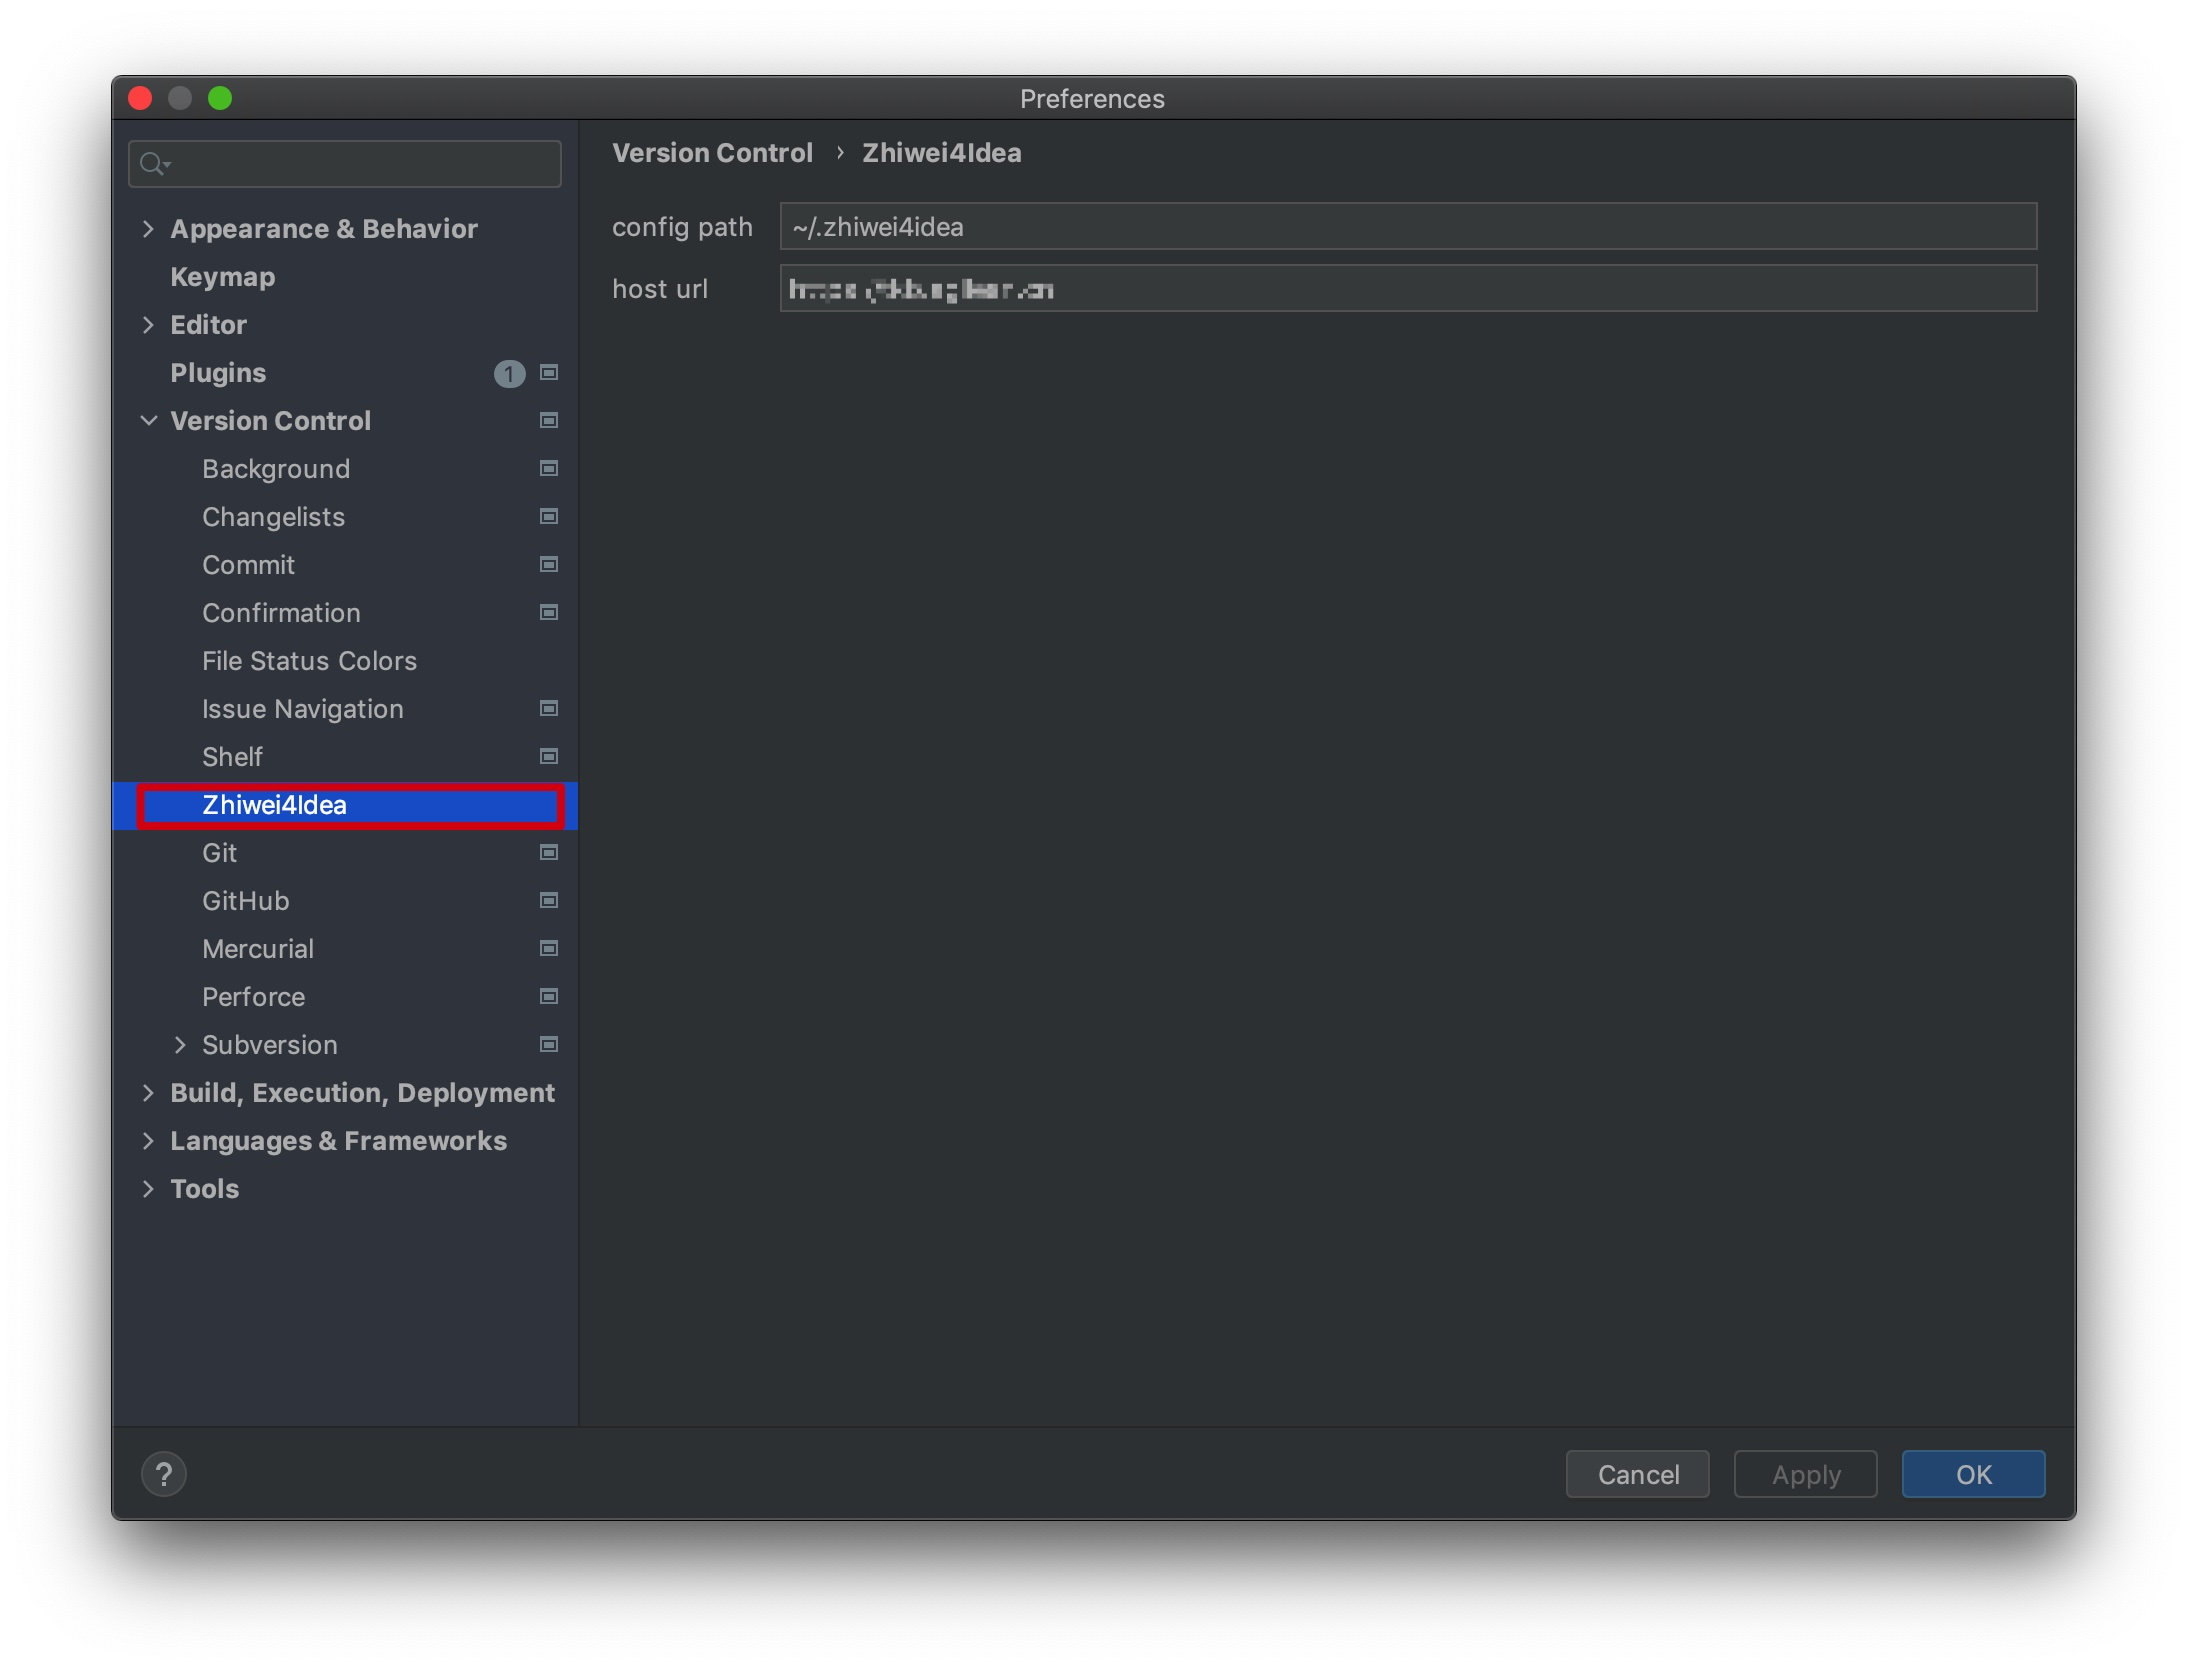
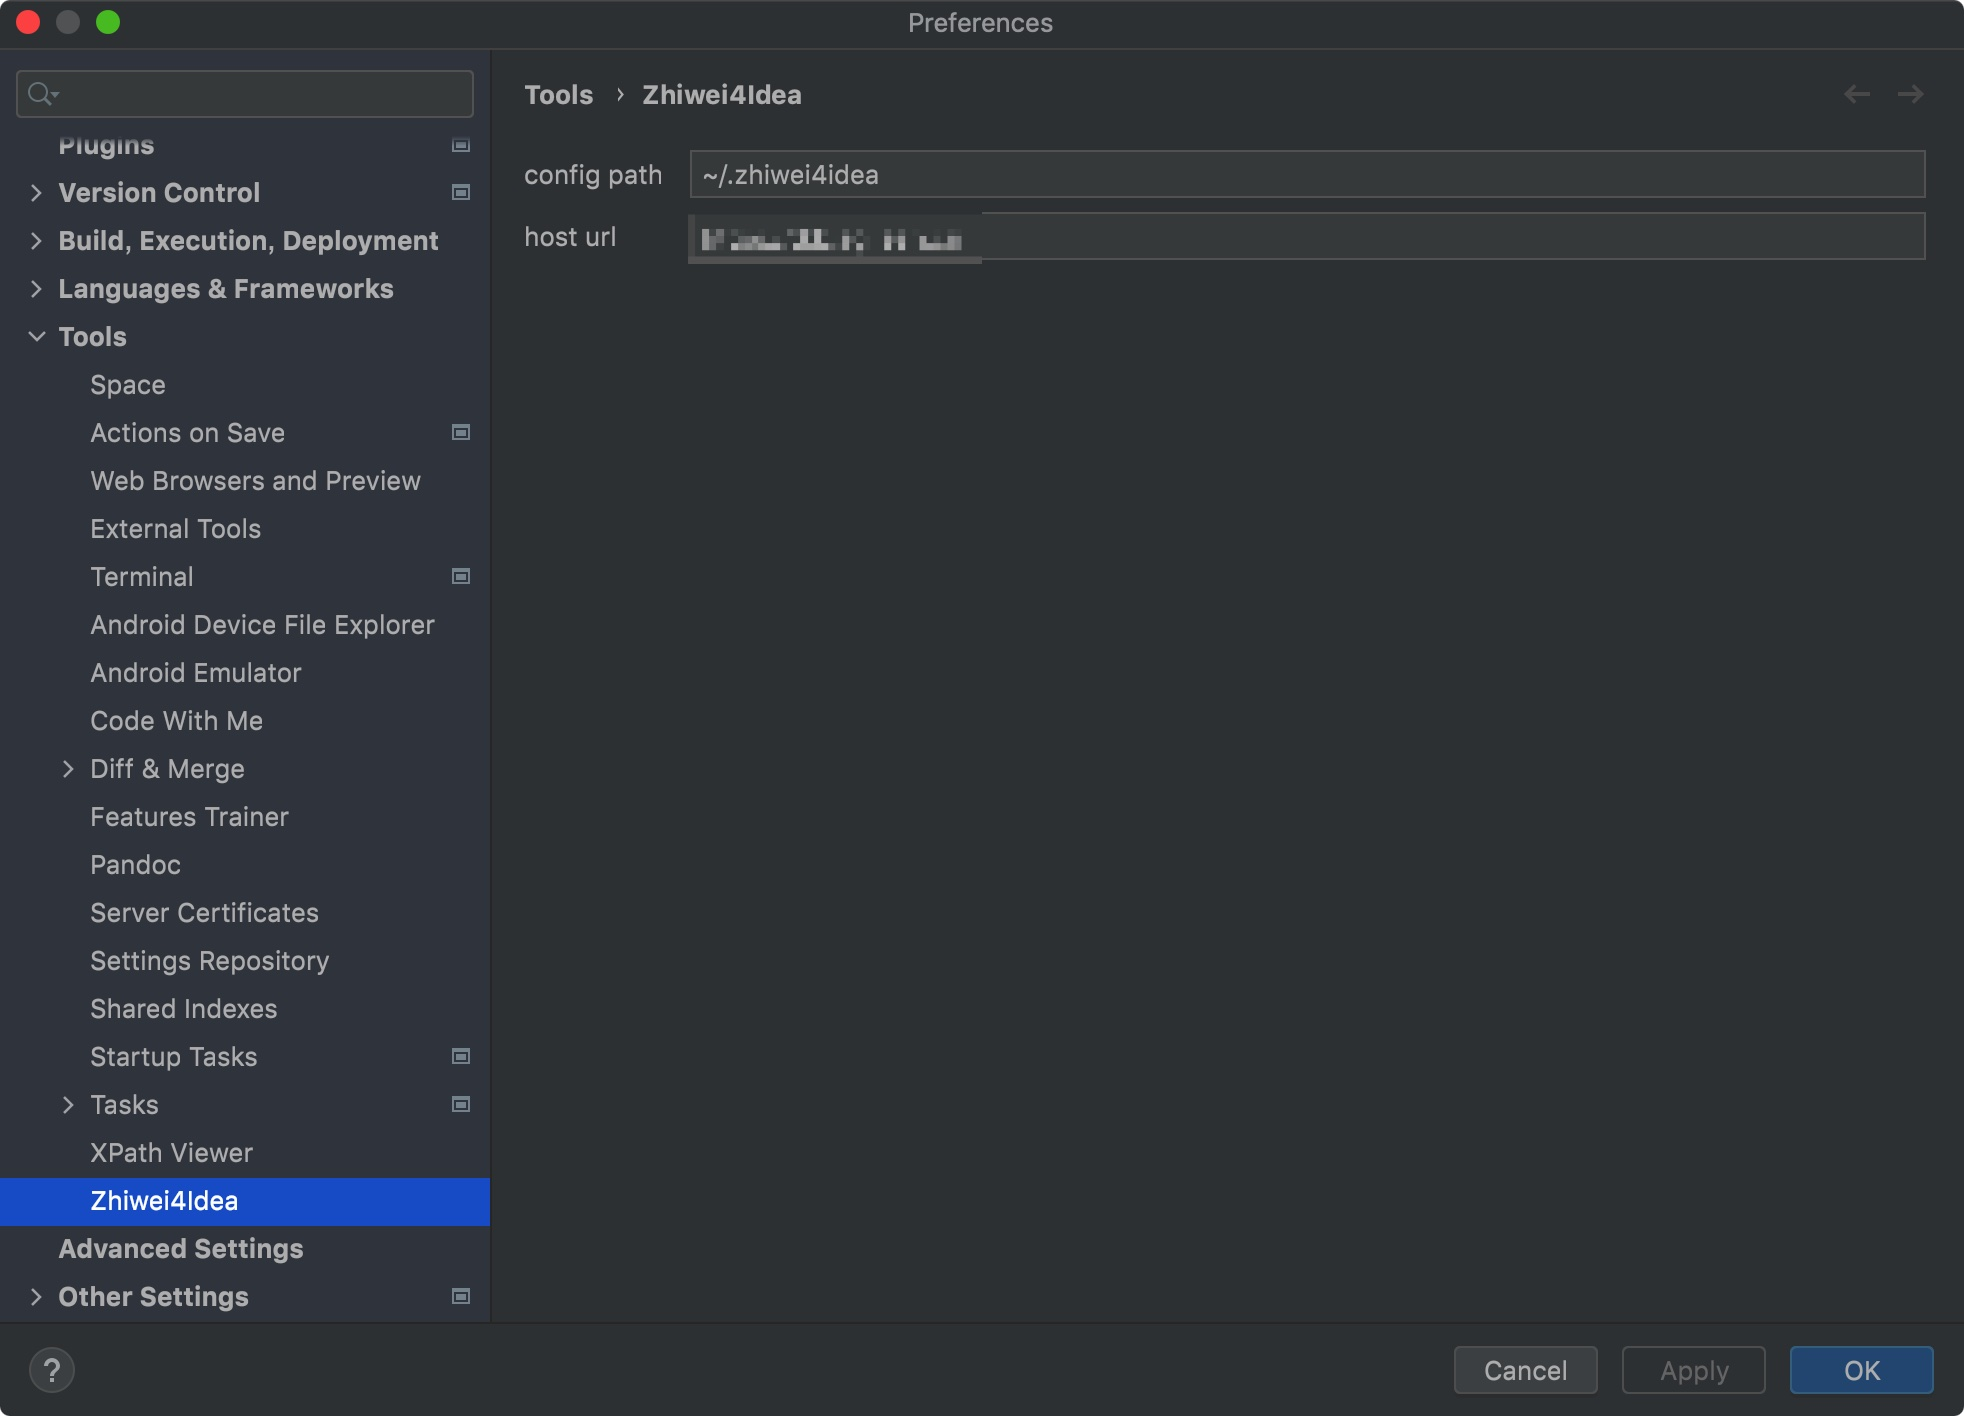
📝 README and upgrade plugin version

Changed region(s): [[0.0, 0.0, 1.0, 1.0], [0.2174, 0.2175, 0.2485, 0.2486]]

diff --git a/README.md b/README.md
@@ -5,13 +5,15 @@
 ## 功能
 
 - [x] commit message 卡片搜索
-- [ ] 使用 JCEF 打开知微相关视图
+- [x] 使用 JCEF 打开知微相关视图
 - [ ] 艾特飞书小伙伴
 - [ ] commit message 支持移动「缺陷卡」到「解决验证」状态
 
 ## 使用方法
+
 安装本插件和准备一份配置文件(YAML)  
-一、假设配置文件路径为 ~/.zhiwei4idea，需要填写用户名和密码  
+一、假设配置文件路径为 ~/.zhiwei4idea，需要填写用户名和密码
+
 ```yaml
 # location at ~/.zhiwei4idea
 
@@ -20,7 +22,8 @@ usename: abc@agilean.cn
 # password of zhiwei
 password: 123321
 ```
-二、进入插件配置 Preferences->Version Control->Zhiwei4idea 填写对应的配置文件地址和知微域名  
+
+二、进入插件配置 Preferences->Tools->Zhiwei4idea 填写对应的配置文件地址和知微域名
 
 ![screenshots preference](screenshots/preference.jpg)
 
@@ -31,7 +34,16 @@ password: 123321
 知微提交代码规范中，需要在提交信息中包含用户故事或者缺陷等相关卡片的编号  
 在 commit dialog 面板上，暂存修改部分，然后在 message 的输入过程中，可以  
 输入触发前缀「card::」键入搜索关键字，即可搜索  
-该功能移植知微评论区井号搜索功能  
+该功能移植知微评论区井号搜索功能
 
-![screenshots commit search card](screenshots/searchCardCode.gif)  
+![screenshots commit search card](screenshots/searchCardCode.gif)
 
+### zhiwei viewer 知微工具窗
+
+内嵌一个 JCEF 装载知微工具，便捷看卡片/挪卡片/评论卡片等操作
+
+![screenshots_zhiwei_viewer](screenshots/zhiwei-viewer.jpg)
+
+### Action
+
+- Reload Zhiwei Viewer 重新使用配置文件中的用户名和密码进行登录并且重新刷新知微工具窗
